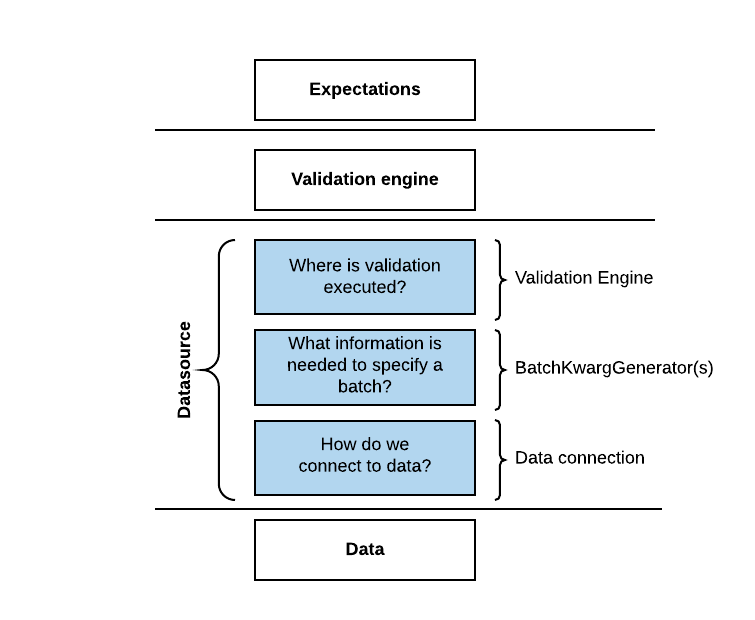
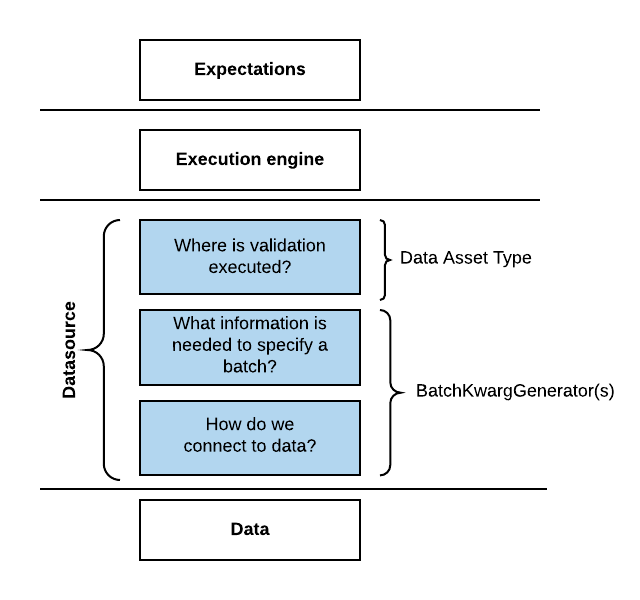
Tidy up connect_to_data

diff --git a/docs/tutorials/getting_started/connect_to_data.rst b/docs/tutorials/getting_started/connect_to_data.rst
@@ -3,11 +3,13 @@
 Connect to data
 ===============
 
-Once you have a DataContext, you'll want to connect to data.  In Great Expectations, ``Datasources`` simplify connections, by managing configuration and providing a consistent, cross-platform API for referencing data.
+Once you have a DataContext, you'll want to connect to data.  In Great Expectations, :ref:`Datasources` simplify connections, by managing configuration and providing a consistent, cross-platform API for referencing data.
 
 Let's configure your first Datasource, by following the next steps in the CLI init flow:
 
 .. code-block:: bash
+
+    Would you like to configure a Datasource? [Y/n]: 
 
     What data would you like Great Expectations to connect to?    
         1. Files on a filesystem (for processing with Pandas or Spark)
@@ -19,8 +21,25 @@ Let's configure your first Datasource, by following the next steps in the CLI in
         2. PySpark
     : 1
 
-    Enter the path (relative or absolute) of a data file
-    : data/notable_works_by_charles_dickens/notable_works_by_charles_dickens.csv
+    Enter the path (relative or absolute) of the root directory where the data files are stored.
+    : /Users/eugenemandel/project_data/womens-shoes-prices
+
+    Give your new Datasource a short name.
+      [womens-shoes-prices__dir]: 
+
+    Great Expectations will now add a new Datasource 'womens-shoes-prices__dir' to your deployment,
+    by adding this entry to your great_expectations.yml:
+
+      womens-shoes-prices__dir:
+        data_asset_type:
+          class_name: PandasDataset
+          module_name: great_expectations.dataset
+        batch_kwargs_generators:
+          subdir_reader:
+            class_name: SubdirReaderBatchKwargsGenerator
+            base_directory: /Users/eugenemandel/project_data/womens-shoes-prices
+
+    OK to proceed? [Y/n]: 
 
 
 That's it! You just configured your first Datasource!
@@ -30,56 +49,50 @@ Before continuing, let's stop and unpack what just happened, and why.
 Why Datasources?
 ----------------
 
-*Validation* is the core operation in Great Expectations: "validate X data against Y Expectations."
+*Validation* is the core operation in Great Expectations: "Validate X data against Y Expectations."
 
 Although the concept of data validation is simple, carrying it out can require complex engineering. This is because your Expectations and data might be stored in different places, and the computational resources for validation might live somewhere else entirely. The engineering cost of building the necessary connectors for validation has been one of the major things preventing data teams from testing their data.
 
-Datasources solve this problem, by conceptually separating *what* you want to validate from *how* you to validate it. Datasources give you full control over the process of bringing data and Expectations together, then abstract away that underlying complexity when you validate X data against Y Expectations.
+Datasources solve this problem, by conceptually separating *what* you want to validate from *how* you want to validate it. Datasources give you full control over the process of bringing data and Expectations together, then abstract away that underlying complexity when you validate X data against Y Expectations.
 
-.. image:: ../../images/datasource-conceptual-diagram.png
+.. figure:: ../../images/datasource-conceptual-diagram.png
+    :width: 400px
+    :class: with-shadow float-right
 
-We call the layer that handles the actual computation a :ref:`Validation Engine`_. Currently, Great Expectations supports three Validation Engines: pandas, sqlalchemy, and pyspark. We plan to extend the library to support others in the future.
+We call the layer that handles the actual computation an :ref:`Execution Engine <reference__core_concepts__validation__execution_engines>`. Currently, Great Expectations supports three Execution Engines: pandas, sqlalchemy, and pyspark. We plan to extend the library to support others in the future.
 
-The layer that handles connecting to data is called a :ref:`Batch Kwarg Generator`_. Not all Batch Kwarg Generators can be used with all Validation Engines. It's also possible to configure a Datasource without a Batch Kwargs Generator.
+The layer that handles connecting to data is called a :ref:`Batch Kwargs Generator <reference__core_concepts__batch_kwargs_generators>`. Not all Batch Kwarg Generators can be used with all Execution Engines. It's also possible to configure a Datasource without a Batch Kwargs Generator if you want to pass data in directly. However, Batch Kwarg Generators are required to get the most out of Great Expectations' :ref:`Data Docs` and :ref:`Profilers`.
 
-You can read more about the inner workings of Datasources, Validation Engines, and Batch Kwarg Generators :ref:`here`_.
+You can read more about the inner workings of Datasources, Execution Engines, and Batch Kwargs Generators :ref:`here <Validation>`.
+
+.. attention::
+
+    We plan to upgrade this configuration API with better names and more conceptual clarity prior to Great Expectations' 1.0 release. If at all possible, we will make those changes in a non-breaking way. If you have ideas, concerns or questions about this planned improvement, please join the public discussion `here <https://discuss.greatexpectations.io/t/conceptual-mismatches-in-datasource-internals/134>`__.
+
 
 Configuring Datasources
 -----------------------
 
 When you completed those last few steps in ``great_expectations init``, you told Great Expectations that
 
-1. you want to use Pandas as your :ref:`execution engine`_,
-2. the data you want to connect to lives in a local filesystem, in the specific path to your data is ``data/notable_works_by_charles_dickens/notable_works_by_charles_dickens.csv``.
-3. Based on that information, the CLI added the following entry into your ``great_expectations.yml`` file, under the ``datasources`` header:
+1. You want to create a new Datasource called ``womens-shoes-prices__dir``.
+2. You want to use Pandas as your :ref:`Execution Engine <Execution Engines>`, hence ``data_asset_type.class_name = PandasDataset``.
+3. You want to create a BatchKwarg Generator called ``subdir_reader`` using the class ``SubdirReaderBatchKwargsGenerator``.
+4. This particular Generator connects to data in files within a local directory, specified here as ``/Users/eugenemandel/project_data/womens-shoes-prices``.
+
+Based on that information, the CLI added the following entry into your ``great_expectations.yml`` file, under the ``datasources`` header:
 
 .. code-block:: yaml
 
-    files_datasource:
-      class_name: PandasDatasource
-      module_name: great_expectations.datasource
+    womens-shoes-prices__dir:
       data_asset_type:
-        module_name: great_expectations.dataset
         class_name: PandasDataset
+        module_name: great_expectations.dataset
+      batch_kwargs_generators:
+        subdir_reader:
+          class_name: SubdirReaderBatchKwargsGenerator
+          base_directory: /Users/eugenemandel/project_data/womens-shoes-prices
 
-This configuration for a Datasource includes the following components:
-
-* ``files_datasource`` is the name of the new Datasource.
-
-* ``class_name`` : specifies the tool that will be used to connect to data, in this case `PandasDatasource`.
-
-* ``data_asset_type`` (required): specifies the execution environment in which Expectations will be executed, in this case `PandasDataset`.
-
-* This Datasource does not currently include a Batch Kwarg Generator, but if it did, it would include the path to the data: ``data/notable_works_by_charles_dickens/``
-
-
-.. attention::
-
-    We plan to upgrade this configuration API soon, with better names and more conceptual clarity. If at all possible, we will make those changes in a non-breaking way. If you have ideas, concerns or questions about this planned improvement, please join the :ref:`public discussion in Github issues <google.com>`__.
-
-
-In the future, you can modify or delete your configuration by editing your ``great_expectations.yml`` file directly. For instructions on how to configure various Datasources, check out :ref:`How-to guides for configuring Datasources`_.
-
-You can also use the :ref:`CLI to work with Datasources`_.
+In the future, you can modify or delete your configuration by editing your ``great_expectations.yml`` file directly. For instructions on how to configure various Datasources, check out :ref:`How-to guides for configuring Datasources <how_to_guides__configuring_datasources>`.
 
 For now, let's continue to :ref:`getting_started__create_your_first_expectations`.

diff --git a/docs/tutorials/getting_started/initialize_a_data_context.rst b/docs/tutorials/getting_started/initialize_a_data_context.rst
@@ -3,7 +3,7 @@
 Initialize a Data Context
 ===============================================
 
-In Great Expectations, your ``DataContext`` manages boilerplate configuration. Using a DataContext is almost always the fastest way to get up and running, even though some teams don't need every component of a DataContext.
+In Great Expectations, your :ref:`Data Context` manages boilerplate configuration. Using a Data Context is almost always the fastest way to get up and running, even though some teams don't need every component of a Data Context.
 
 
 Install Great Expectations
@@ -87,7 +87,7 @@ To initialize your Great Expectations deployment for the project, run this comma
 
 You should see this:
 
-.. code-block:: bash
+.. code-block::
 
       ___              _     ___                  _        _   _             
      / __|_ _ ___ __ _| |_  | __|_ ___ __  ___ __| |_ __ _| |_(_)___ _ _  ___
@@ -95,27 +95,10 @@ You should see this:
      \___|_| \___\__,_|\__| |___/_\_\ .__/\___\__|\__\__,_|\__|_\___/_||_/__/
                                     |_|                                      
                  ~ Always know what to expect from your data ~             
-
-    In a few minutes you will see Great Expectations in action on your data!
+    
+    Let's configure a new Data Context.
     
     First, Great Expectations will create a new directory:
-    
-    #FIXME: Adjust this here, and in init_messages.py
-
-        great_expectations
-        |-- expectations
-        |-- great_expectations.yml
-        |-- notebooks
-        |   |-- pandas
-        |   |-- spark
-        |   |-- sql
-        |-- plugins
-        |   |-- ...
-        |-- uncommitted
-            |-- config_variables.yml
-            |-- ...
-
-    #FIXME: Here's what it should look like:
 
         great_expectations
         ├── great_expectations.yml
@@ -127,20 +110,21 @@ You should see this:
             ├── config_variables.yml
             ├── documentation
             └── validations
-
+    
     OK to proceed? [Y/n]: 
-
 
 Let's pause there for a moment.
     
-Once you finish going through ``init``, your ``great_expectations/`` directory will contains all of the important components of a Great Expectations deployment, in miniature:
+Once you finish going through ``init``, your ``great_expectations/`` directory will contain all of the important components of a Great Expectations deployment, in miniature:
 
-* ``great_expectations.yml`` will define Data Sources, Expectations, Validation Results, etc. for the deployment.
-* The ``expectations/`` directory will store all your Expectations as JSON files. If you want to store them somewhere else, you can change that later.
+* ``great_expectations.yml`` will contain the main configuration your deployment.
+* The ``expectations/`` directory will store all your :ref:`Expectations` as JSON files. If you want to store them somewhere else, you can change that later.
+* The ``notebooks/`` directory is for helper notebooks to interact with Great Expectations.
+* The ``plugins/`` directory will hold code for any custom plugins you develop as part of your deployment.
 * The ``uncommitted/`` directory contains files that shouldn't live in version control. It has a ``.gitignore`` configured to exclude all its contents from version control. The main contents of the directory are:
 
   * ``uncommitted/config_variables.yml``, which will hold sensitive information, such as database credentials and other secrets.
-  * ``uncommitted/validations``, which will hold Validation Results generated by Great Expectations.
-  * ``uncommitted/documentation``, which will hold contains data documentation generated from Expectations, Validation Results, and other metadata.
+  * ``uncommitted/validations``, which will hold :ref:`Validation Results` generated by Great Expectations.
+  * ``uncommitted/documentation``, which will contains :ref:`Data Docs` generated from Expectations, Validation Results, and other metadata.
 
 Back in your terminal, go ahead and hit ``Enter`` to proceed.

diff --git a/docs/reference/core_concepts.rst b/docs/reference/core_concepts.rst
@@ -86,6 +86,9 @@ validation. The batch could be a specific database table, the most recent log fi
 **Batch Parameters** provide instructions for how to retrieve stored Batch Kwargs or build new Batch Kwargs that reflect
 partitions, deliveries, or slices of logical data assets.
 
+
+.. _reference__core_concepts__batch_kwargs_generators:
+
 A **Batch Kwargs Generator** translates Batch Parameters to datasource-specific Batch Kwargs. A Batch Kwargs Generator 
 can also identify data assets and partitions by inspecting a storage environment.
 
@@ -109,6 +112,10 @@ DataAssets and Validations, answer the questions:
 
 - How do I describe my Expectations to Great Expectations?
 - Does my data meet my Expectations?
+
+.. _reference__core_concepts__validation__execution_engines:
+
+An **Execution Engine** is the layer that handles the actual computation for validation. Currently, Great Expectations supports three Execution Engines: pandas, sqlalchemy, and pyspark. We plan to extend the library to support others in the future.
 
 A **DataAsset** is a Great Expectations object that can create and validate Expectations against specific data. 
 DataAssets are connected to data. They can evaluate Expectations wherever you access your data, using Pandas, Spark, or SqlAlchemy.
